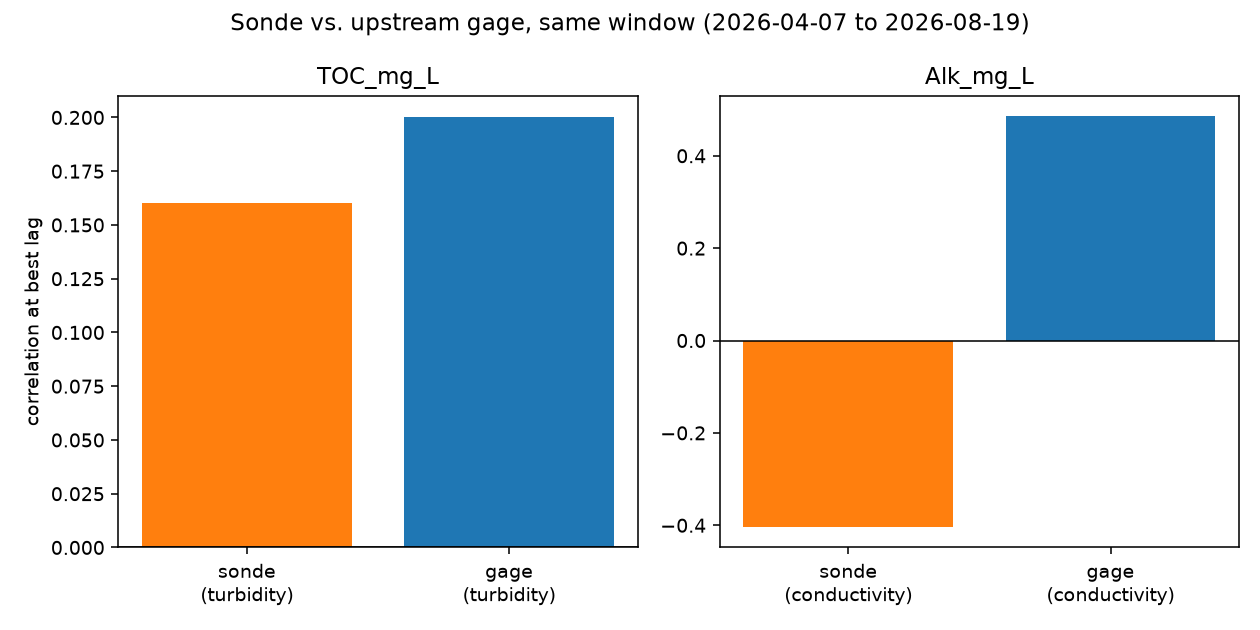
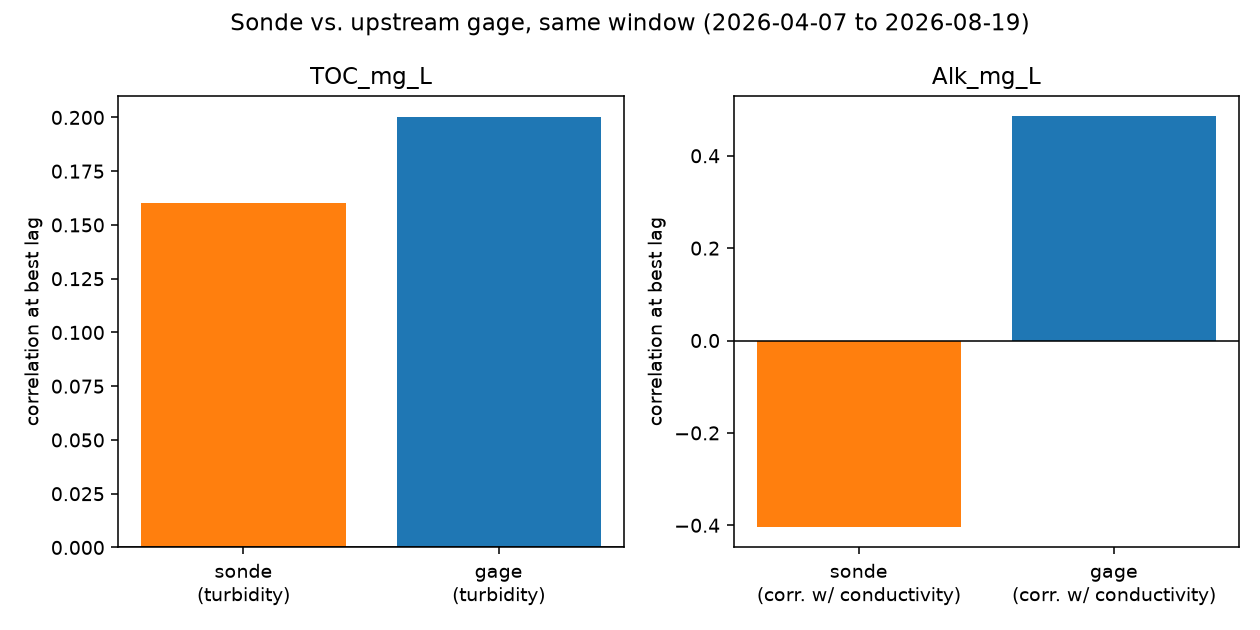
. b Fig 16 right subplot was missing its y-axis label and used the bare word "conductivity" as a bar category, so a negative Pearson r (sonde conductivity vs. alkalinity) read as a negative raw conductivity reading. Add the missing ylabel and relabel bars as "corr. w/ conductivity"; raw values (veri

diff --git a/teams/shallow-learning-parameters/visualize_sonde.py b/teams/shallow-learning-parameters/visualize_sonde.py
@@ -149,12 +149,13 @@ def plot_sonde_vs_gage_comparison(
     axes[0].set_ylabel("correlation at best lag")
 
     axes[1].bar(
-        ["sonde\n(conductivity)", "gage\n(conductivity)"],
+        ["sonde\n(corr. w/ conductivity)", "gage\n(corr. w/ conductivity)"],
         [alk_sonde[best_lag(alk_sonde)], alk_gage[best_lag(alk_gage)]],
         color=["tab:orange", "tab:blue"],
     )
     axes[1].axhline(0, color="black", linewidth=0.8)
     axes[1].set_title("Alk_mg_L")
+    axes[1].set_ylabel("correlation at best lag")  # bars are r, not raw conductivity -- a negative bar is a valid r, not a sensor error
 
     fig.suptitle(f"Sonde vs. upstream gage, same window ({start.date()} to {end.date()})")
     fig.tight_layout()
